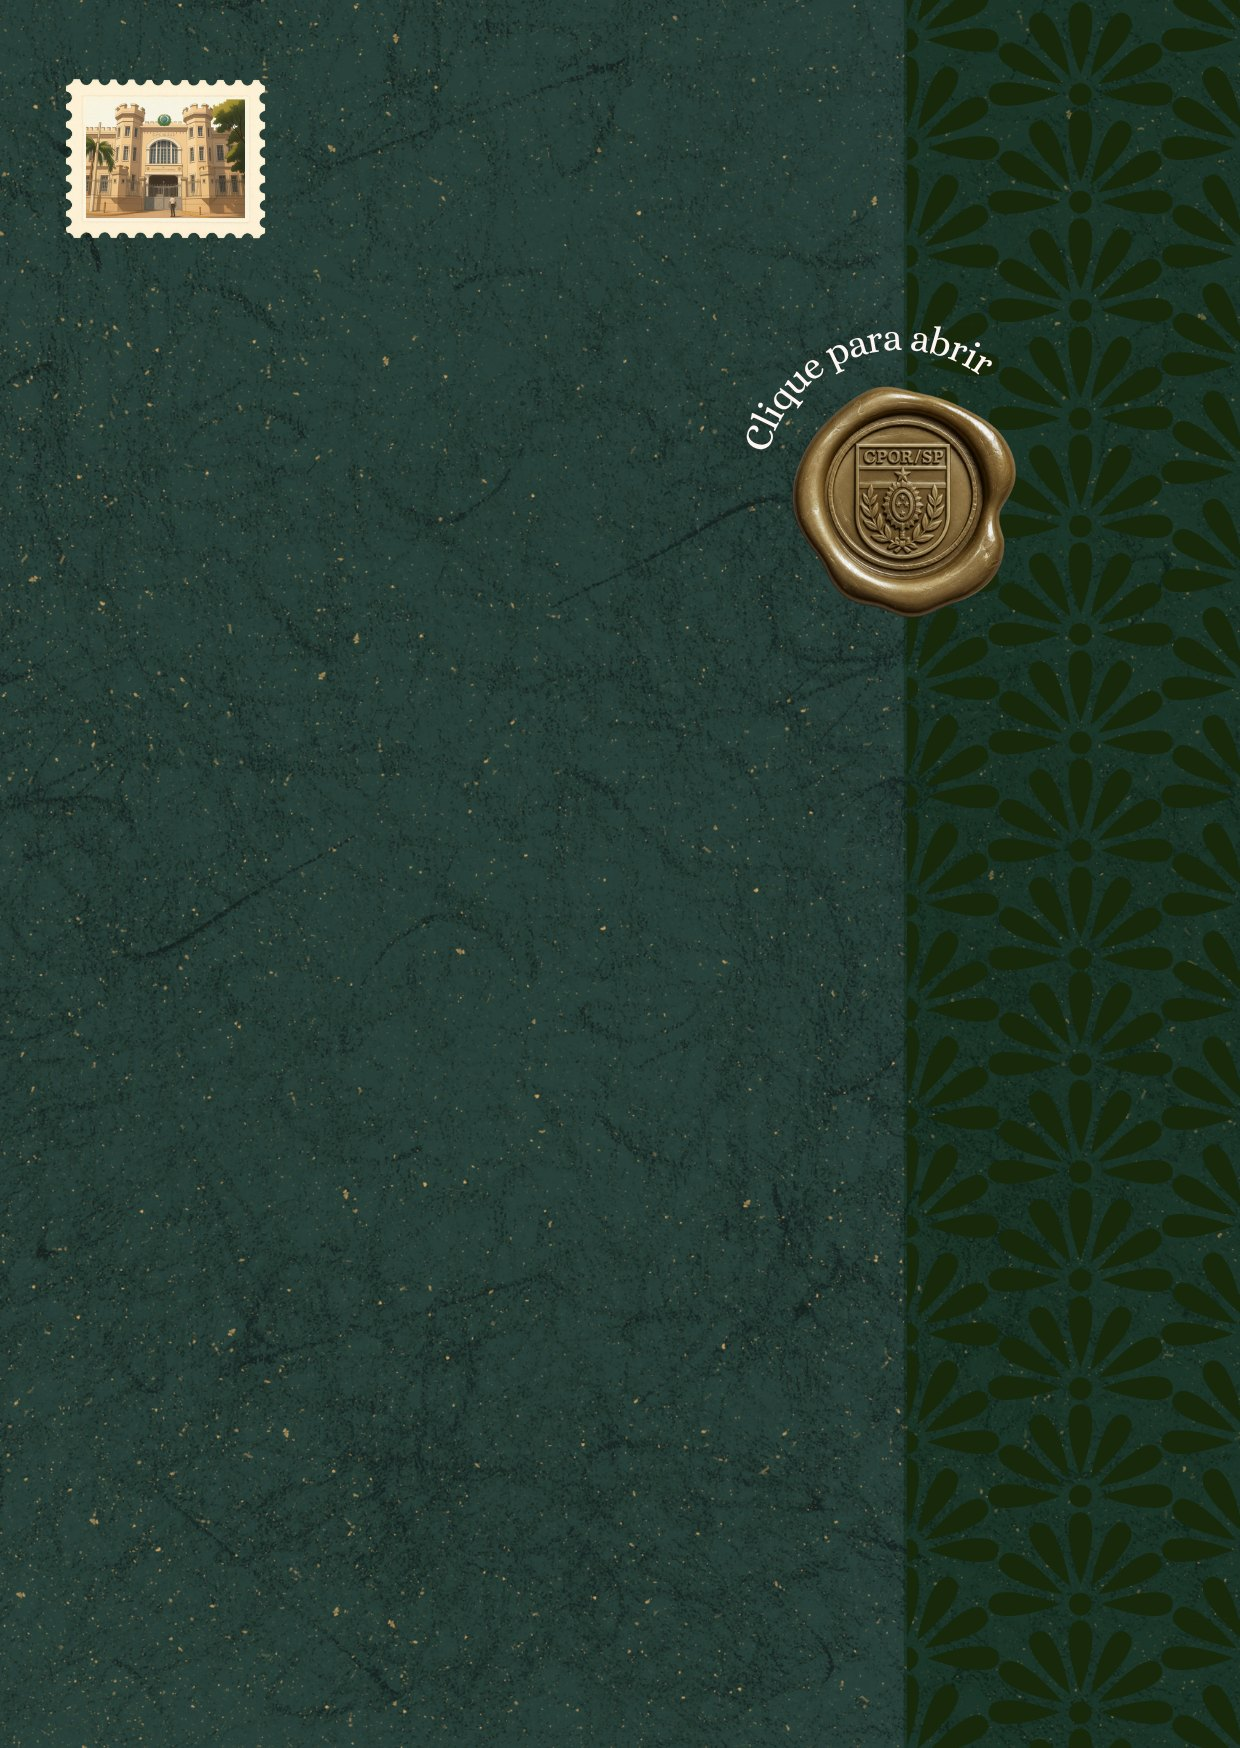
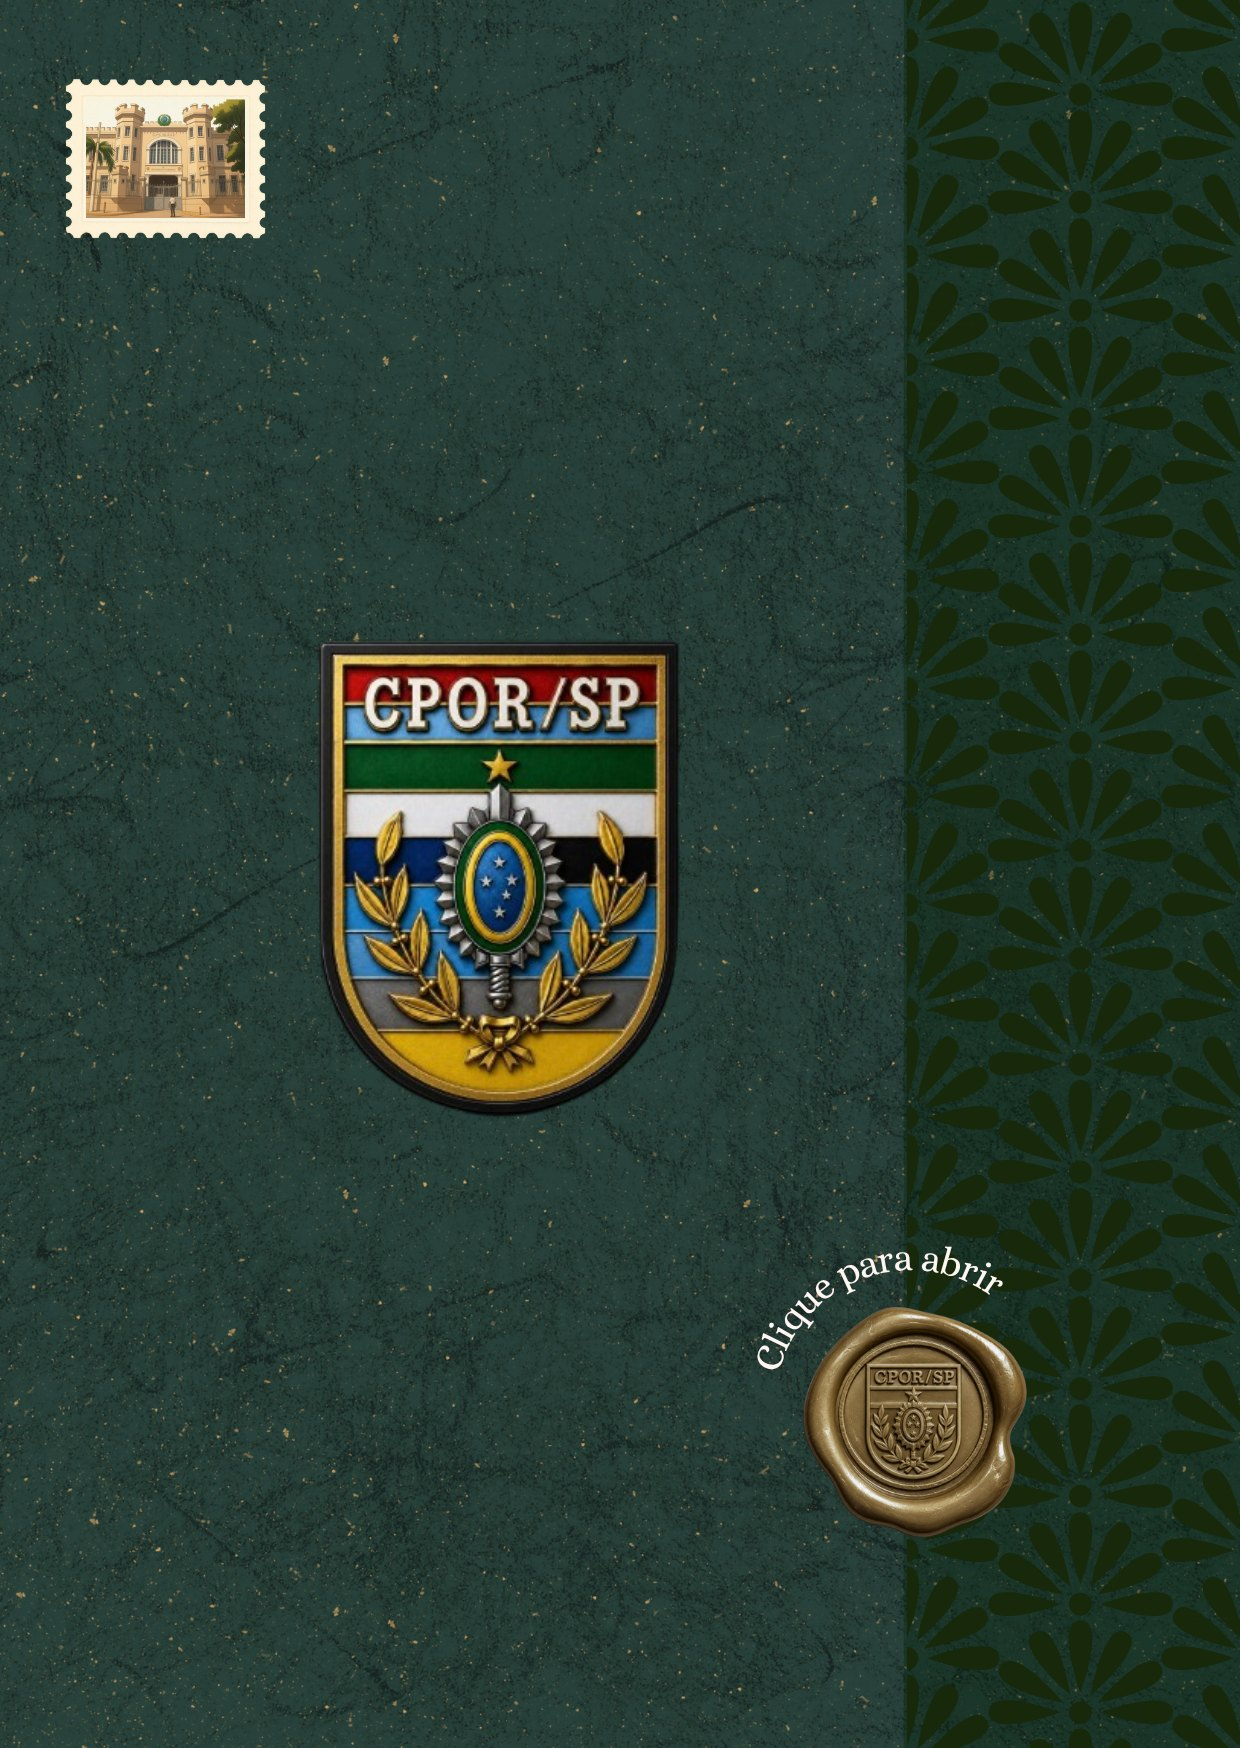
Troca as três capas pelas novas artes
Claude-Session: https://claude.ai/code/session_01V1TRpwwDnXHGDhL8kQ61XA

Changed region(s): [[0.2452, 0.3707, 0.5516, 0.6487], [0.6129, 0.1854, 0.8274, 0.3707], [0.6129, 0.7105, 0.8274, 0.8959]]

diff --git a/capa-2.html b/capa-2.html
@@ -7,10 +7,10 @@
 <meta name="description" content="Convite para a Solenidade de Passagem de Comando do CPOR/SP — 14/01/2027.">
 <meta property="og:title" content="Convite — Passagem de Comando CPOR/SP">
 <meta property="og:description" content="Solenidade de Passagem de Comando do CPOR/SP — quinta-feira, 14/01/2027, às 19h.">
-<meta property="og:image" content="assets/convite-1-marca.jpg">
+<meta property="og:image" content="assets/convite-1b.jpg">
 <meta property="og:type" content="website">
 <meta name="theme-color" content="#13261f">
-<link rel="preload" as="image" href="assets/convite-1-marca.jpg">
+<link rel="preload" as="image" href="assets/convite-1b.jpg">
 <link rel="preconnect" href="https://fonts.googleapis.com">
 <link rel="preconnect" href="https://fonts.gstatic.com" crossorigin>
 <link href="https://fonts.googleapis.com/css2?family=Cormorant+Garamond:wght@500;600&display=swap" rel="stylesheet">
@@ -214,9 +214,9 @@
   .abrir:focus { outline: none; }
   .abrir .anel {
     position: absolute;
-    left: 63.6%;
-    top: 22%;
-    width: 18.6%;
+    left: var(--selo-x, 63.6%);
+    top: var(--selo-y, 22%);
+    width: var(--selo-w, 18.6%);
     aspect-ratio: 1;
     border-radius: 50%;
   }
@@ -292,7 +292,7 @@
 </head>
 <body>
 <main>
-  <div class="palco" id="convite">
+  <div class="palco" id="convite" style="--selo-x: 57.6%; --selo-y: 67%; --selo-w: 30.4%">
     <div class="forro" aria-hidden="true"></div>
 
     <div class="cartao">
@@ -313,13 +313,13 @@
 
     <div class="aba esq" aria-hidden="true">
       <div class="folha">
-        <div class="lado fora"><img draggable="false" src="assets/convite-1-marca.jpg" alt=""></div>
+        <div class="lado fora"><img draggable="false" src="assets/convite-1b.jpg" alt=""></div>
         <div class="lado dentro"></div>
       </div>
     </div>
     <div class="aba dir" aria-hidden="true">
       <div class="folha">
-        <div class="lado fora"><img draggable="false" src="assets/convite-1-marca.jpg" alt=""></div>
+        <div class="lado fora"><img draggable="false" src="assets/convite-1b.jpg" alt=""></div>
         <div class="lado dentro"></div>
       </div>
     </div>

diff --git a/capa-3.html b/capa-3.html
@@ -7,10 +7,10 @@
 <meta name="description" content="Convite para a Solenidade de Passagem de Comando do CPOR/SP — 14/01/2027.">
 <meta property="og:title" content="Convite — Passagem de Comando CPOR/SP">
 <meta property="og:description" content="Solenidade de Passagem de Comando do CPOR/SP — quinta-feira, 14/01/2027, às 19h.">
-<meta property="og:image" content="assets/convite-1-foto.jpg">
+<meta property="og:image" content="assets/convite-1c.jpg">
 <meta property="og:type" content="website">
 <meta name="theme-color" content="#13261f">
-<link rel="preload" as="image" href="assets/convite-1-foto.jpg">
+<link rel="preload" as="image" href="assets/convite-1c.jpg">
 <link rel="preconnect" href="https://fonts.googleapis.com">
 <link rel="preconnect" href="https://fonts.gstatic.com" crossorigin>
 <link href="https://fonts.googleapis.com/css2?family=Cormorant+Garamond:wght@500;600&display=swap" rel="stylesheet">
@@ -214,9 +214,9 @@
   .abrir:focus { outline: none; }
   .abrir .anel {
     position: absolute;
-    left: 63.6%;
-    top: 22%;
-    width: 18.6%;
+    left: var(--selo-x, 63.6%);
+    top: var(--selo-y, 22%);
+    width: var(--selo-w, 18.6%);
     aspect-ratio: 1;
     border-radius: 50%;
   }
@@ -292,7 +292,7 @@
 </head>
 <body>
 <main>
-  <div class="palco" id="convite">
+  <div class="palco" id="convite" style="--selo-x: 63.6%; --selo-y: 22%; --selo-w: 18.6%">
     <div class="forro" aria-hidden="true"></div>
 
     <div class="cartao">
@@ -313,13 +313,13 @@
 
     <div class="aba esq" aria-hidden="true">
       <div class="folha">
-        <div class="lado fora"><img draggable="false" src="assets/convite-1-foto.jpg" alt=""></div>
+        <div class="lado fora"><img draggable="false" src="assets/convite-1c.jpg" alt=""></div>
         <div class="lado dentro"></div>
       </div>
     </div>
     <div class="aba dir" aria-hidden="true">
       <div class="folha">
-        <div class="lado fora"><img draggable="false" src="assets/convite-1-foto.jpg" alt=""></div>
+        <div class="lado fora"><img draggable="false" src="assets/convite-1c.jpg" alt=""></div>
         <div class="lado dentro"></div>
       </div>
     </div>

diff --git a/opcoes.html b/opcoes.html
@@ -55,19 +55,19 @@
   <h1>Convite CPOR/SP · Opções de capa</h1>
   <div class="grade">
     <a href="index.html">
-      <img src="assets/convite-1.jpg" alt="Capa original">
-      <div class="nome">1 · Original</div>
-      <div class="nota">Envelope com selo de cera</div>
+      <img src="assets/convite-1.jpg" alt="Capa 1">
+      <div class="nome">Capa 1</div>
+      <div class="nota">Brasão ao centro, selo de cera embaixo</div>
     </a>
-    <a href="capa-marca-dagua.html">
-      <img src="assets/convite-1-marca.jpg" alt="Capa com o brasão do CPOR/SP">
-      <div class="nome">2 · Brasão</div>
-      <div class="nota">Brasão nas cores originais</div>
+    <a href="capa-2.html">
+      <img src="assets/convite-1b.jpg" alt="Capa 2">
+      <div class="nome">Capa 2</div>
+      <div class="nota">Brasão como selo</div>
     </a>
-    <a href="capa-foto.html">
-      <img src="assets/convite-1-foto.jpg" alt="Capa com a foto aérea do CPOR/SP">
-      <div class="nome">3 · Foto aérea</div>
-      <div class="nota">Fotografia abaixo do selo</div>
+    <a href="capa-3.html">
+      <img src="assets/convite-1c.jpg" alt="Capa 3">
+      <div class="nome">Capa 3</div>
+      <div class="nota">Selo de cera no alto, brasão embaixo</div>
     </a>
   </div>
 </main>

diff --git a/index.html b/index.html
@@ -214,9 +214,9 @@
   .abrir:focus { outline: none; }
   .abrir .anel {
     position: absolute;
-    left: 63.6%;
-    top: 22%;
-    width: 18.6%;
+    left: var(--selo-x, 63.6%);
+    top: var(--selo-y, 22%);
+    width: var(--selo-w, 18.6%);
     aspect-ratio: 1;
     border-radius: 50%;
   }
@@ -292,7 +292,7 @@
 </head>
 <body>
 <main>
-  <div class="palco" id="convite">
+  <div class="palco" id="convite" style="--selo-x: 64.6%; --selo-y: 74.7%; --selo-w: 18.4%">
     <div class="forro" aria-hidden="true"></div>
 
     <div class="cartao">

diff --git a/README.md b/README.md
@@ -18,12 +18,11 @@ O cartão aberto pode ser ampliado com os gestos de sempre: pinça ou dois toque
 
 Para trocar uma arte, substitua o arquivo em `assets/` mantendo o nome e a proporção 1240 × 1748.
 
-## Capas alternativas
-As três ficam lado a lado em `opcoes.html`.
+## Capas
+As três ficam lado a lado em `opcoes.html`. Só a capa (envelope) muda; o resto é igual.
+- `index.html` — capa 1: brasão ao centro, selo de cera embaixo
+- `capa-2.html` — capa 2: brasão como selo
+- `capa-3.html` — capa 3: selo de cera no alto, brasão embaixo
 
-Só a capa (envelope) muda; o resto é igual.
-- `index.html` — capa original
-- `capa-marca-dagua.html` — brasão do CPOR/SP nas cores originais, grande, atravessando a linha onde o envelope abre e esmaecendo para baixo
-- `capa-foto.html` — foto aérea do CPOR/SP como uma fotografia sobre o papel, ocupando toda a parte de baixo da capa, surgindo do verde em degradê, com a linha da aba aparente
-
-Se mudar algo no `index.html`, gere as outras duas de novo trocando `assets/convite-1.jpg` por `assets/convite-1-marca.jpg` ou `assets/convite-1-foto.jpg`.
+Cada página indica onde fica o selo (o anel de foco do teclado) pelas variáveis `--selo-x`, `--selo-y` e `--selo-w` no `style` do `#convite`.
+Se mudar algo no `index.html`, copie para `capa-2.html` e `capa-3.html` trocando só a imagem da capa (`assets/convite-1b.jpg` / `assets/convite-1c.jpg`) e esse `style`.
